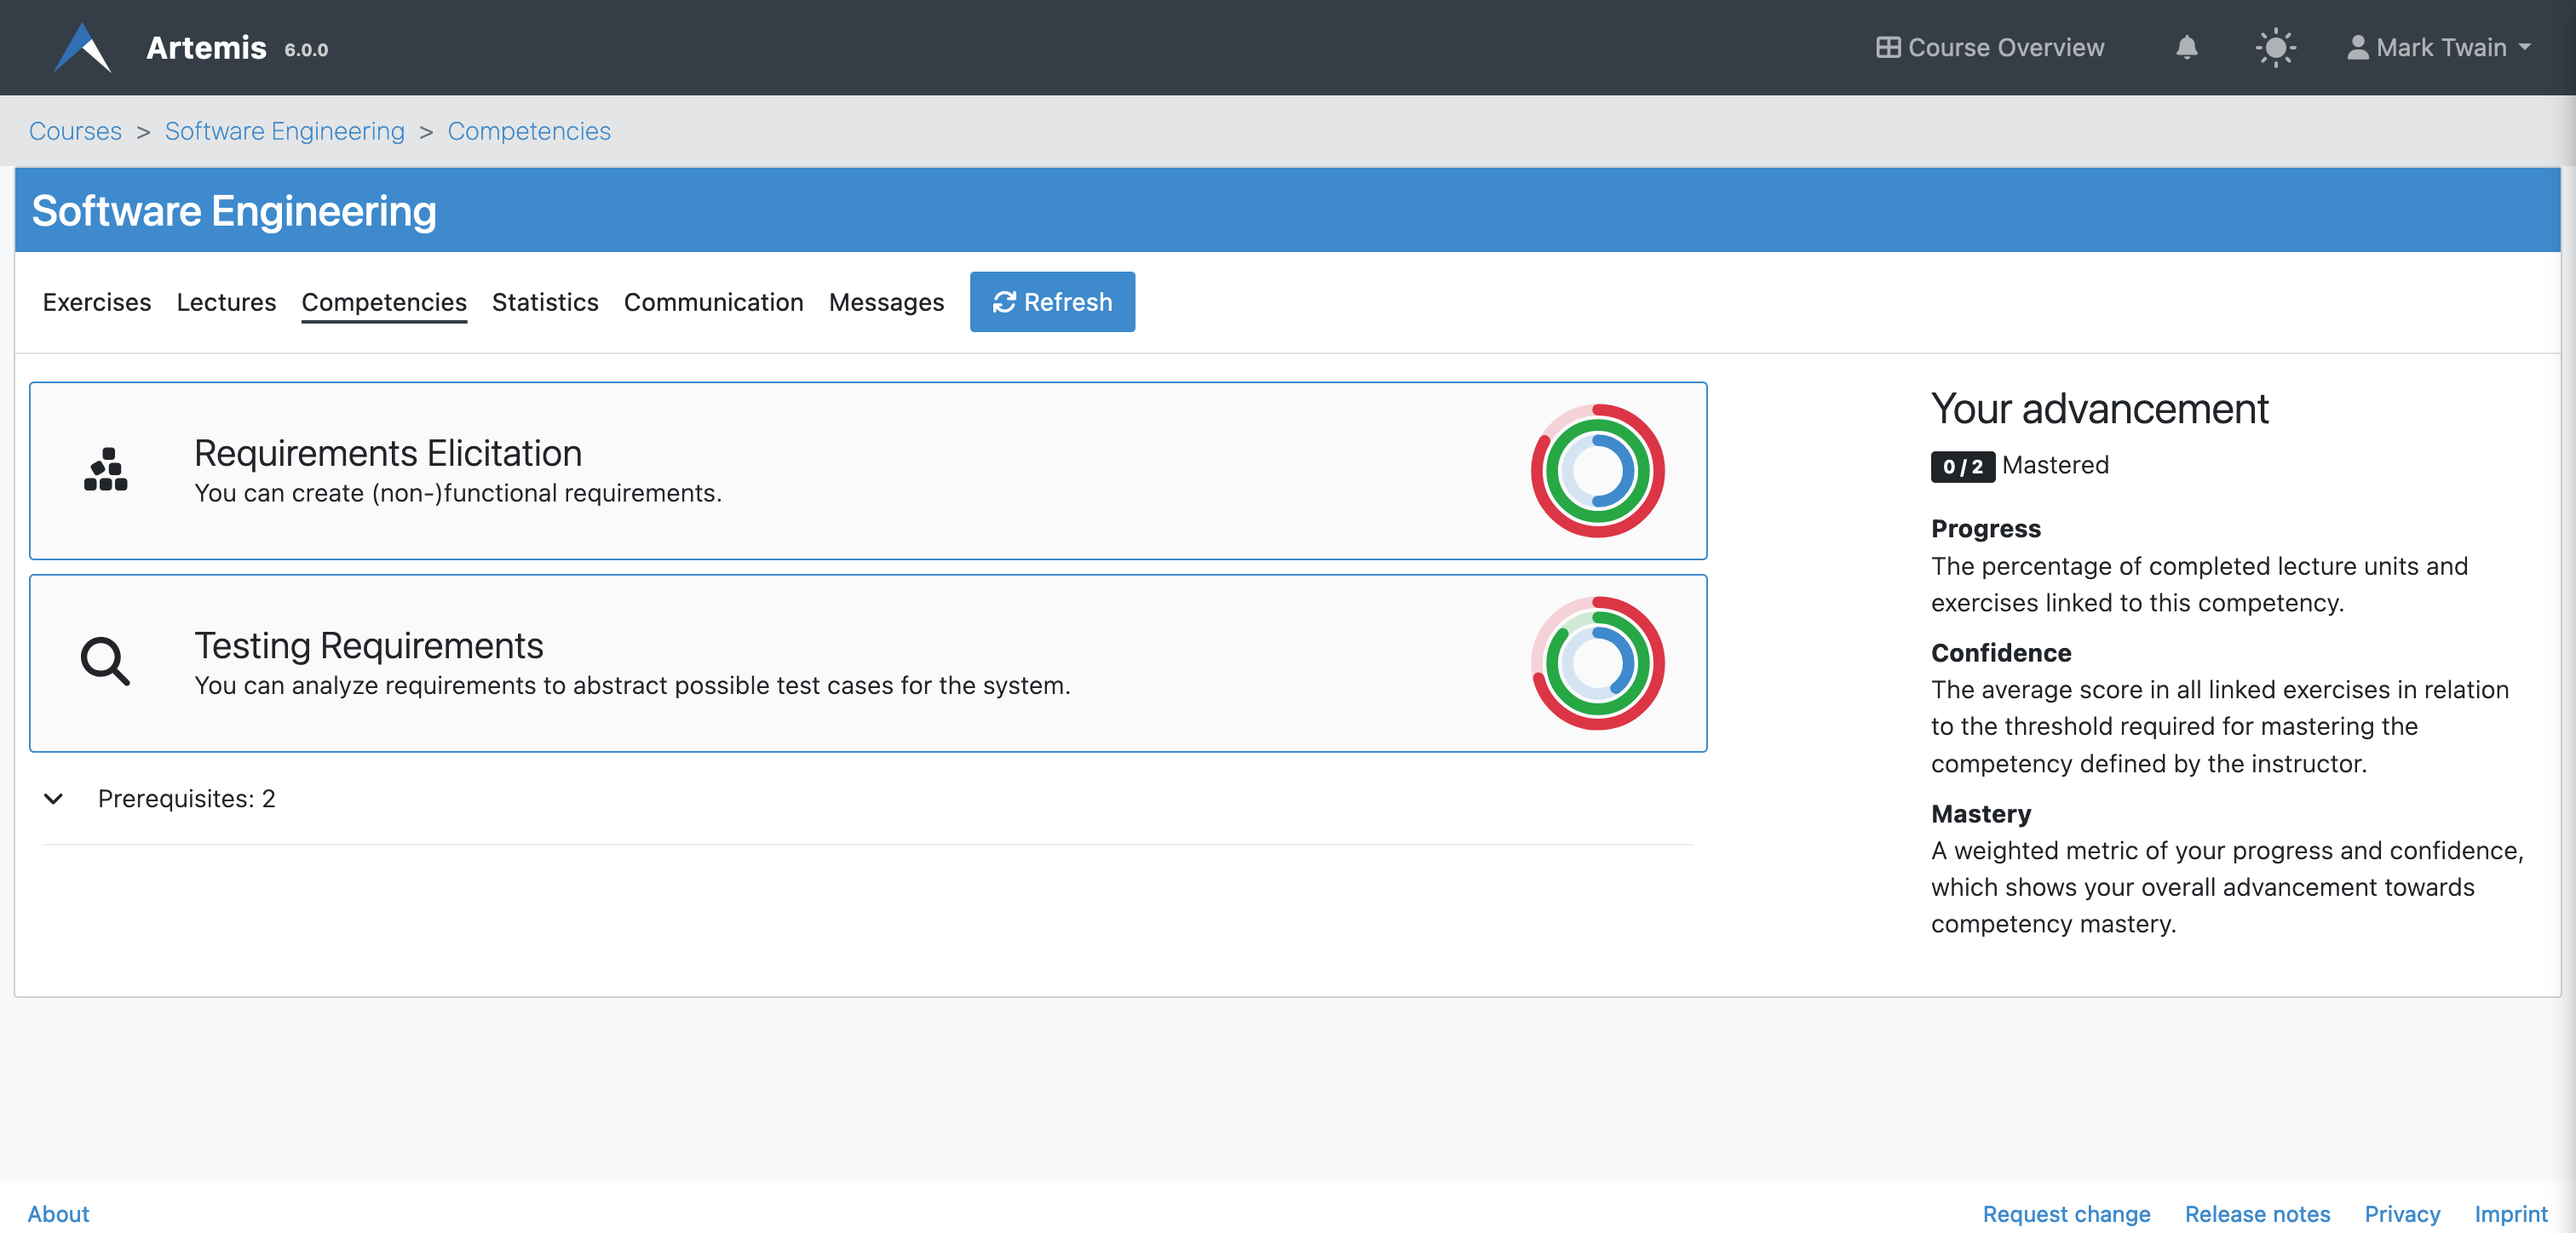
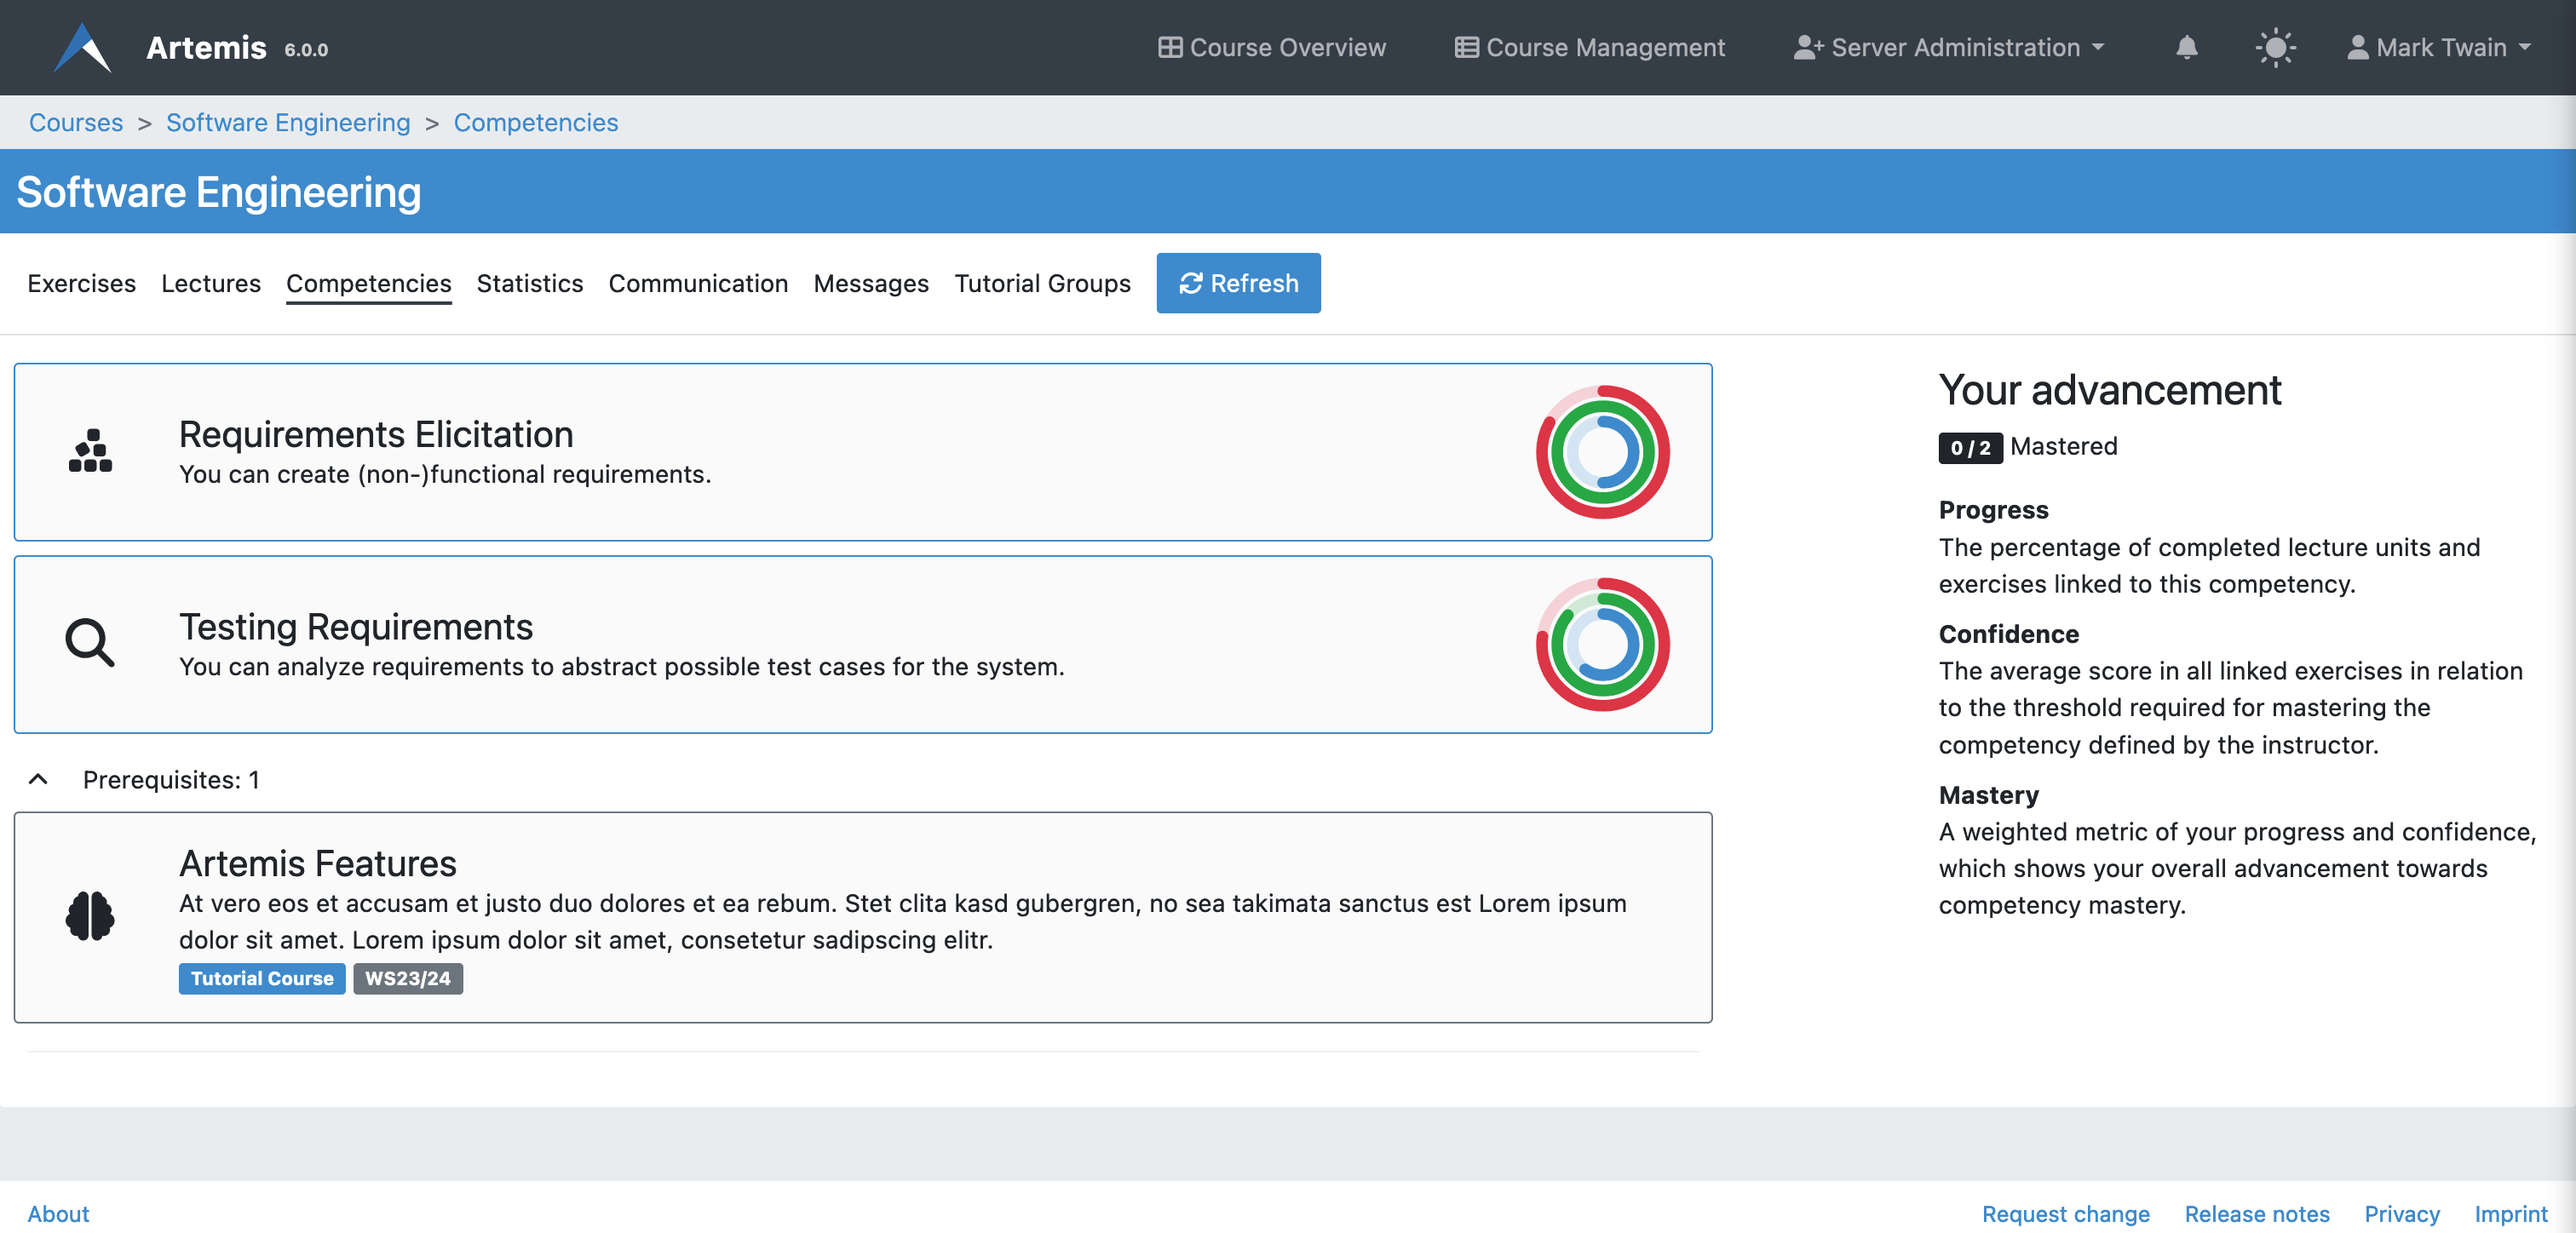
Development: Update documentation about competencies (#6117)

diff --git a/docs/user/learning-analytics.rst b/docs/user/learning-analytics.rst
@@ -10,7 +10,7 @@ Learning Analytics
 Overview
 --------
 Artemis integrates different statistics for students to compare themselves to the course average.
-It allows instructors to evaluate the average student performance based on exercises and learning goals.
+It allows instructors to evaluate the average student performance based on exercises and competencies.
 
 .. note::
     To preserve the individual's data privacy, Artemis calculates the data on the fly and only shows aggregated data to instructors so that it's not possible to track an individual student within the learning analytics modules.
@@ -39,13 +39,22 @@ To get a quick overview about the achieved points per exercise, a bar chart show
 
 |students-points-per-exercise|
 
-Learning Goal Statistics
-^^^^^^^^^^^^^^^^^^^^^^^^
-In case learning goals are defined, students can get an overview of their progress and confidence for the different learning goals on the learning goals page.
+Competencies
+^^^^^^^^^^^^
+Competencies are overarching learning objectives that tie together various lectures and exercises.
+In case competencies are defined, students can get an overview of their individual progress and confidence on the competencies tab.
+The page lists all competencies with their title, description, and `taxonomy <https://en.wikipedia.org/wiki/Bloom%27s_taxonomy>`_.
+
+Expanding the prerequisites section shows the student all competencies from previous courses the instructor has selected as a prerequisite for this course.
 
 |students-learning-goals-statistics|
 
-When clicking on a learning goal, a page opens and shows detailed statistics about the learning goal and the student's advancement towards mastery.
+When clicking on a competency, a page opens and displays detailed statistics about the competency together with all linked lecture units and exercises.
+The tripartite rings show the student's advancement:
+The **blue ring describes the progress**, the percentage of completed lecture units and exercises.
+The **green ring visualizes the confidence**, the average score in all linked exercises in relation to the threshold required for mastering the competency (set by the instructor).
+The **red ring is a weighted metric of the student's progress and confidence**, which shows the overall advancement towards competency mastery.
+A competency is considered mastered by a student when they completed all linked learning objects (progress equals 100%) and have an adequate confidence level (average score greater or equal to mastery threshold).
 
 |students-learning-goals-statistics-detail|
 
@@ -76,12 +85,27 @@ To get to this view, instructors can either click on one of the average score ba
 
 |instructors-exercise-statistics|
 
-Learning Goal Statistics
-^^^^^^^^^^^^^^^^^^^^^^^^
-In case learning goals are defined, the number of students that mastered the learning goals is shown on the learning goals management page.
+Competencies
+^^^^^^^^^^^^
+An instructor can view and edit all competencies of a course on the competency management page.
+The table shows the title, description, and percentage of students that mastered the respective competency.
 
-|instructors-learning-goals-statistics|
+On a side note, instructors can also select competencies from previous courses they thaught as a prerequisite for this course.
+Students can see these on the competencies page and during the course self-registration.
 
+|instructors-learning-goals-manage|
+
+An instructor can create or edit competencies using the following form.
+Besides a title and description, they can optionally set a `taxonomy <https://en.wikipedia.org/wiki/Bloom%27s_taxonomy>`_.
+The mastery threshold describes the minimum average score required for a student to reach 100% confidence in this competency.
+The current average score of all linked exercises shown on this page can be used as a basis for defining a reasonable threshold value.
+Instructors can link competencies to lecture units on this page by first choosing a lecture and then selecting desired lecture units.
+
+|instructors-learning-goal-edit|
+
+Alternatively, instructors can also link competencies to an exercise or lecture unit on the respective management page using the selection box shown below.
+
+|instructors-learning-goals-link|
 
 .. |students-statistics| image:: learning-analytics/students-statistics.png
     :width: 1000
@@ -94,7 +118,7 @@ In case learning goals are defined, the number of students that mastered the lea
 .. |students-learning-goals-statistics| image:: learning-analytics/students-learning-goals-statistics.png
     :width: 1000
 .. |students-learning-goals-statistics-detail| image:: learning-analytics/students-learning-goals-statistics-detail.png
-    :width: 600
+    :width: 1000
 .. |instructors-basic-statistics| image:: learning-analytics/instructors-basic-statistics.png
     :width: 1000
 .. |instructors-course-statistics-button| image:: learning-analytics/instructors-course-statistics-button.png
@@ -103,5 +127,9 @@ In case learning goals are defined, the number of students that mastered the lea
     :width: 1000
 .. |instructors-exercise-statistics| image:: learning-analytics/instructors-exercise-statistics.png
     :width: 1000
-.. |instructors-learning-goals-statistics| image:: learning-analytics/instructors-learning-goals-statistics.png
+.. |instructors-learning-goals-manage| image:: learning-analytics/instructors-learning-goals-manage.png
     :width: 1000
+.. |instructors-learning-goal-edit| image:: learning-analytics/instructors-learning-goal-edit.png
+    :width: 1000
+.. |instructors-learning-goals-link| image:: learning-analytics/instructors-learning-goals-link.png
+    :width: 600

diff --git a/README.md b/README.md
@@ -35,10 +35,10 @@
 9. **[Communication](https://docs.artemis.cit.tum.de/user/communication/)**: Instructors can post announcements. Students can ask questions, post comments, and react to other posts. Tutors can filter unanswered questions.
 10. **[Notifications](https://docs.artemis.cit.tum.de/user/notifications)**: Artemis supports customizable web and email notifications. Users can enable and disable different notification types.
 11. **[Team Exercises](https://docs.artemis.cit.tum.de/user/exercises/team-exercises/)**: Instructors can configure team exercises with real time collaboration and dedicated tutors per team.
-12. **[Lectures](https://docs.artemis.cit.tum.de/user/lectures/)**: Instructors can upload lecture slides, divide lectures into units, integrate video streams, lecture recordings, and exercises into lectures, and define learning goals.
+12. **[Lectures](https://docs.artemis.cit.tum.de/user/lectures/)**: Instructors can upload lecture slides, divide lectures into units, integrate video streams, lecture recordings, and exercises into lectures, and define competencies.
 13. **[Integrated Markdown Editor](https://docs.artemis.cit.tum.de/user/markdown-support/)**: Markdown is used to format text content across the platform using an integrated markdown editor.
 14. **[Plagiarism checks](https://docs.artemis.cit.tum.de/user/plagiarism-check/)**: Artemis integrates plagiarism checks for programming exercises (based on [JPlag](https://github.com/jplag/JPlag)), text exercises, and modeling exercises. It allows notifying students about identified plagiarism. Students can review and comment on the allegation. 
-15. **[Learning analytics](https://docs.artemis.cit.tum.de/user/learning-analytics/)**: Artemis integrated different statistics for students to compare themselves to the course average. It allows instructors to evaluate the average student performance based on exercises and learning goals.
+15. **[Learning analytics](https://docs.artemis.cit.tum.de/user/learning-analytics/)**: Artemis integrated different statistics for students to compare themselves to the course average. It allows instructors to evaluate the average student performance based on exercises and competencies.
 16. **[Scalable](https://docs.artemis.cit.tum.de/user/scaling/)**: Artemis scales to multiple courses with thousands of students. In fact, the largest course had 2,400 students. Administrators can easily scale Artemis with additional build agents in the continuous integration environment.
 17. **[High user satisfaction](https://docs.artemis.cit.tum.de/user/user-experience/)**: Artemis is easy to use, provides guided tutorials. Developers focus on usability, user experience, and performance.
 18. **Customizable**: It supports multiple instructors, editors, and tutors per course and allows instructors to customize many course settings

diff --git a/docs/user/lectures.rst b/docs/user/lectures.rst
@@ -118,17 +118,11 @@ Students complete this unit when they watch the video for at least five minutes.
 
 |create-video-unit|
 
-Learning Goals
+Competencies
 --------------
 
-Instructors can define learning goals to group course content and associate units from different lectures with the same learning goal.
-
-|learning-goals-management|
-
-To create a learning goal, as an instructor click on the plus button and enter a name and description.
-Then select a lecture from the dropdown and mark some of its units to associate them with this learning goal.
-
-|create-learning-goal|
+Instructors can create competencies, which are desired learning objectives, and link lecture units to them.
+See :ref:`Learning Analytics <learning-analytics>` for more information.
 
 
 .. |lectures-overview| image:: lectures/lectures-overview.png
@@ -162,8 +156,4 @@ Then select a lecture from the dropdown and mark some of its units to associate 
 .. |create-attachment-unit| image:: lectures/create-attachment-unit.png
     :width: 800
 .. |create-exercise-unit| image:: lectures/create-exercise-unit.png
-    :width: 800
-.. |learning-goals-management| image:: lectures/learning-goals-management.png
-    :width: 800
-.. |create-learning-goal| image:: lectures/create-learning-goal.png
     :width: 800
